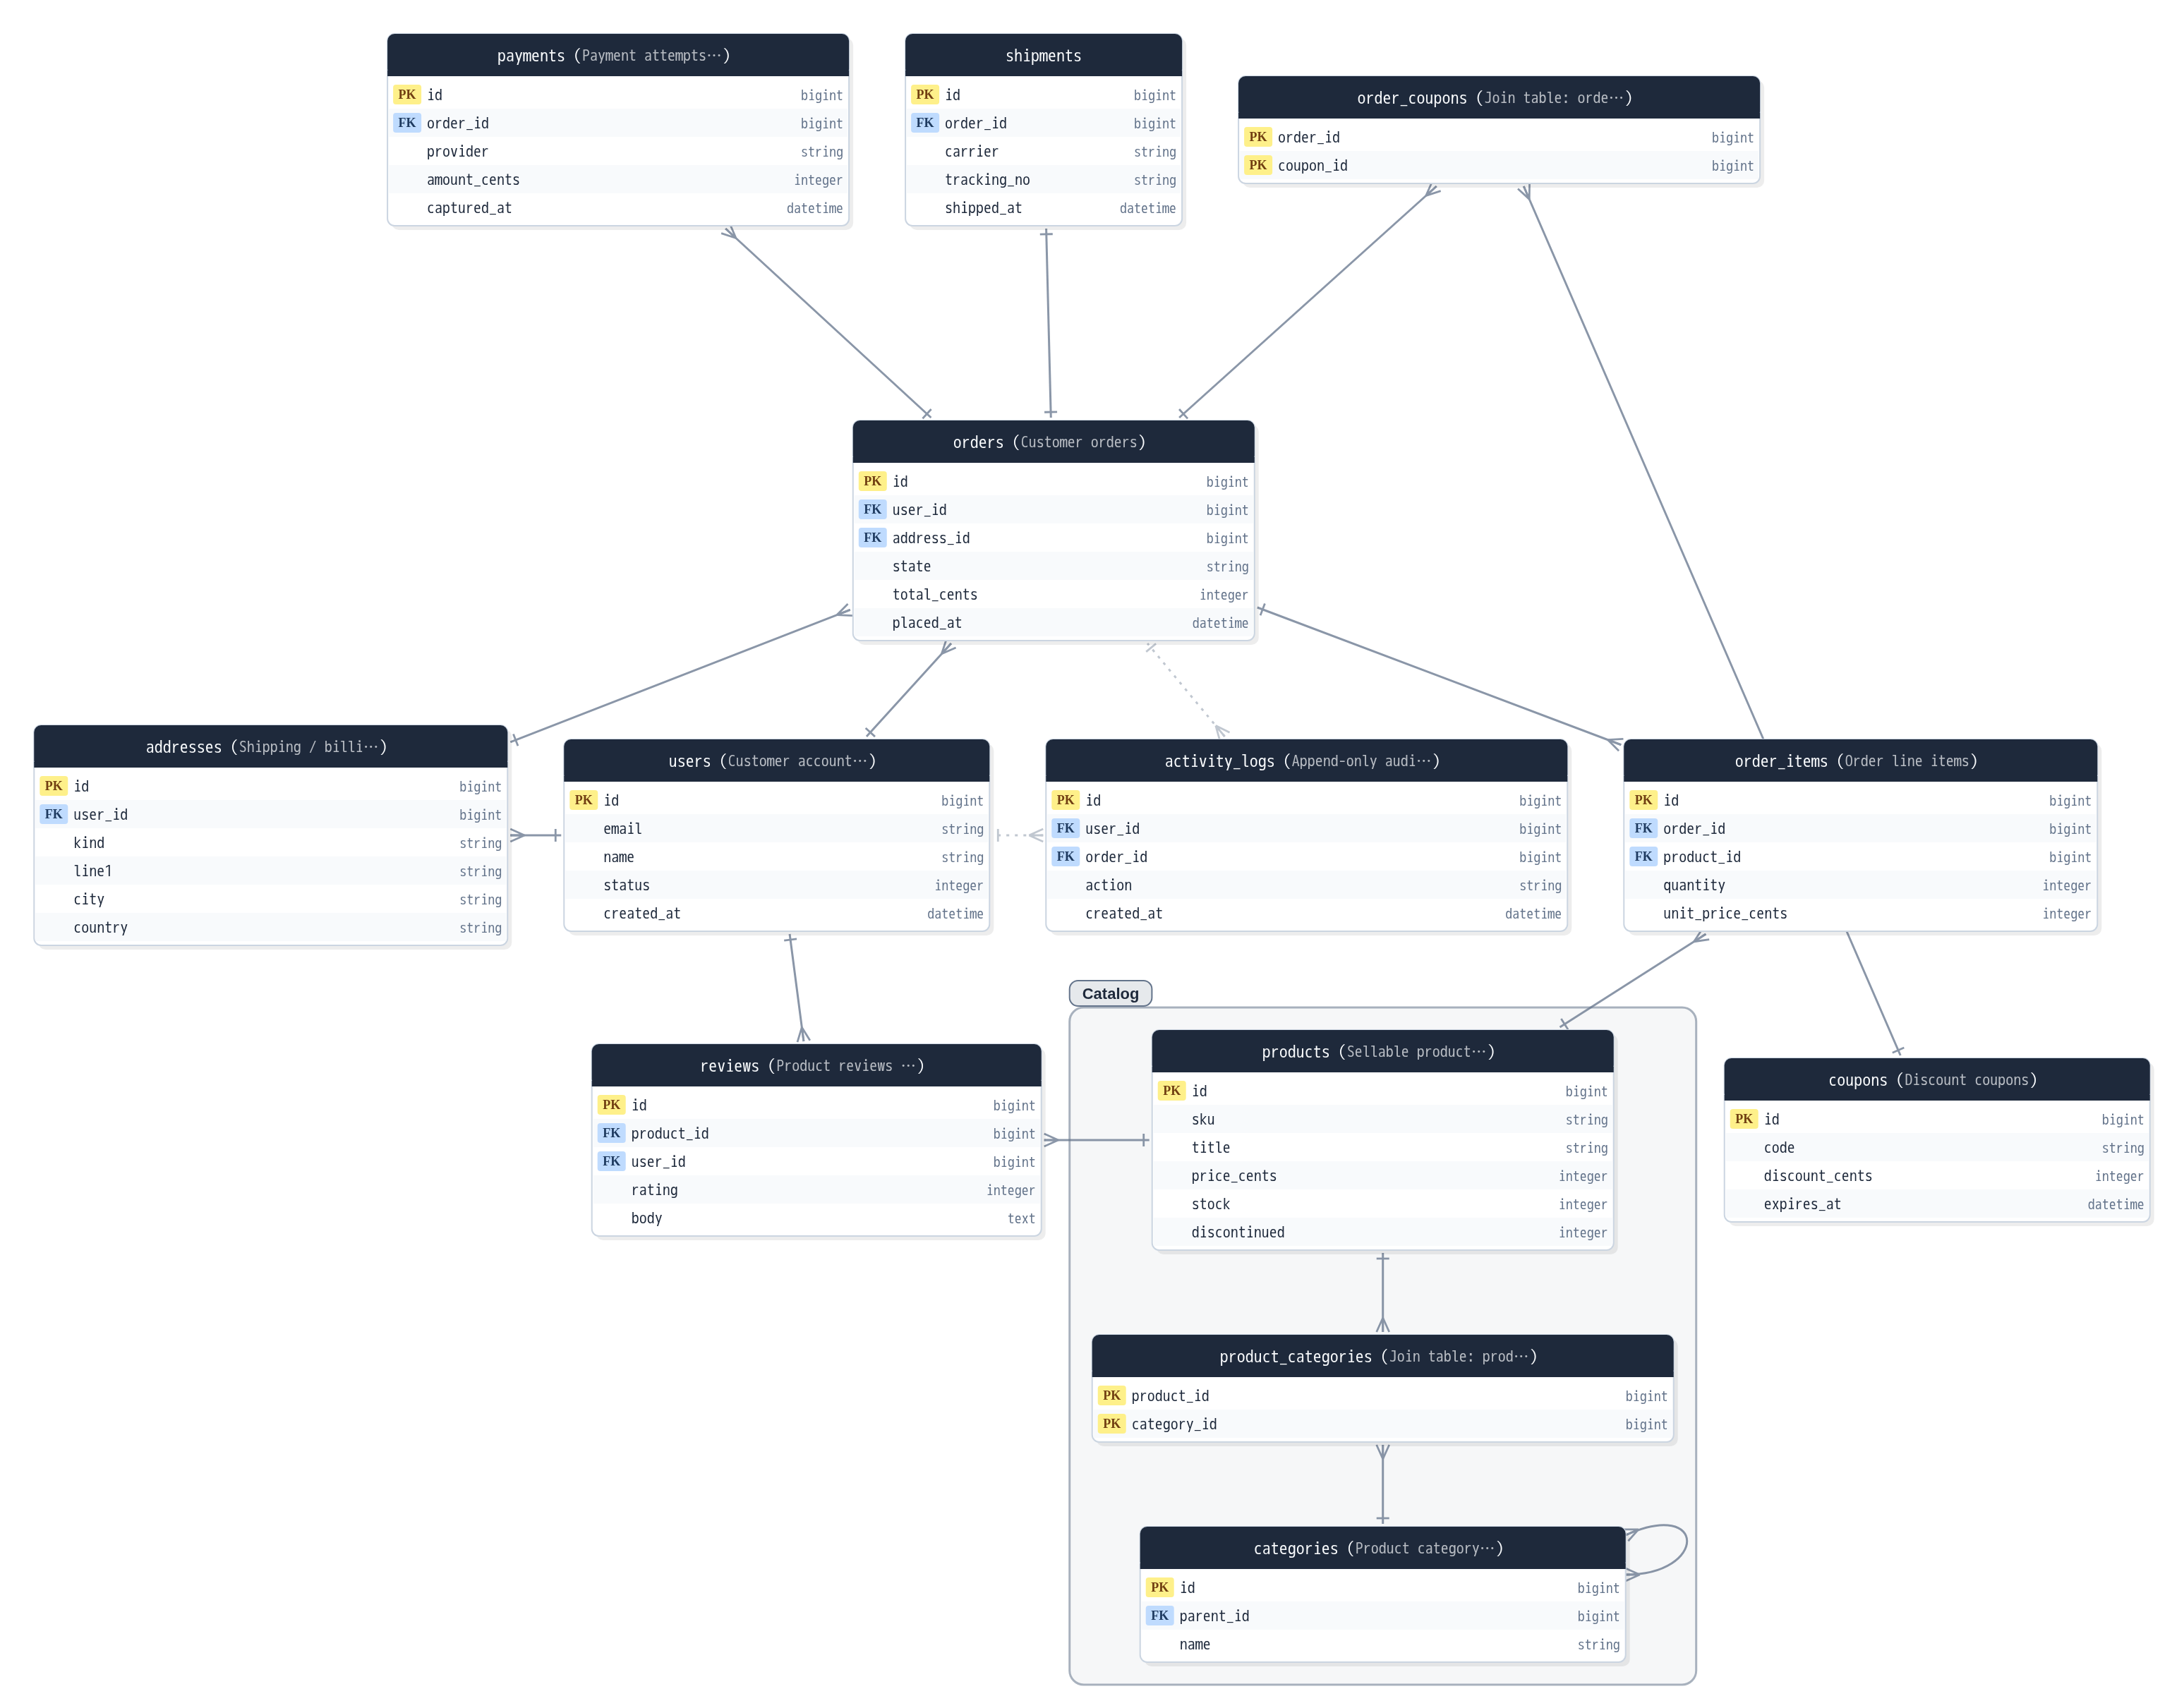
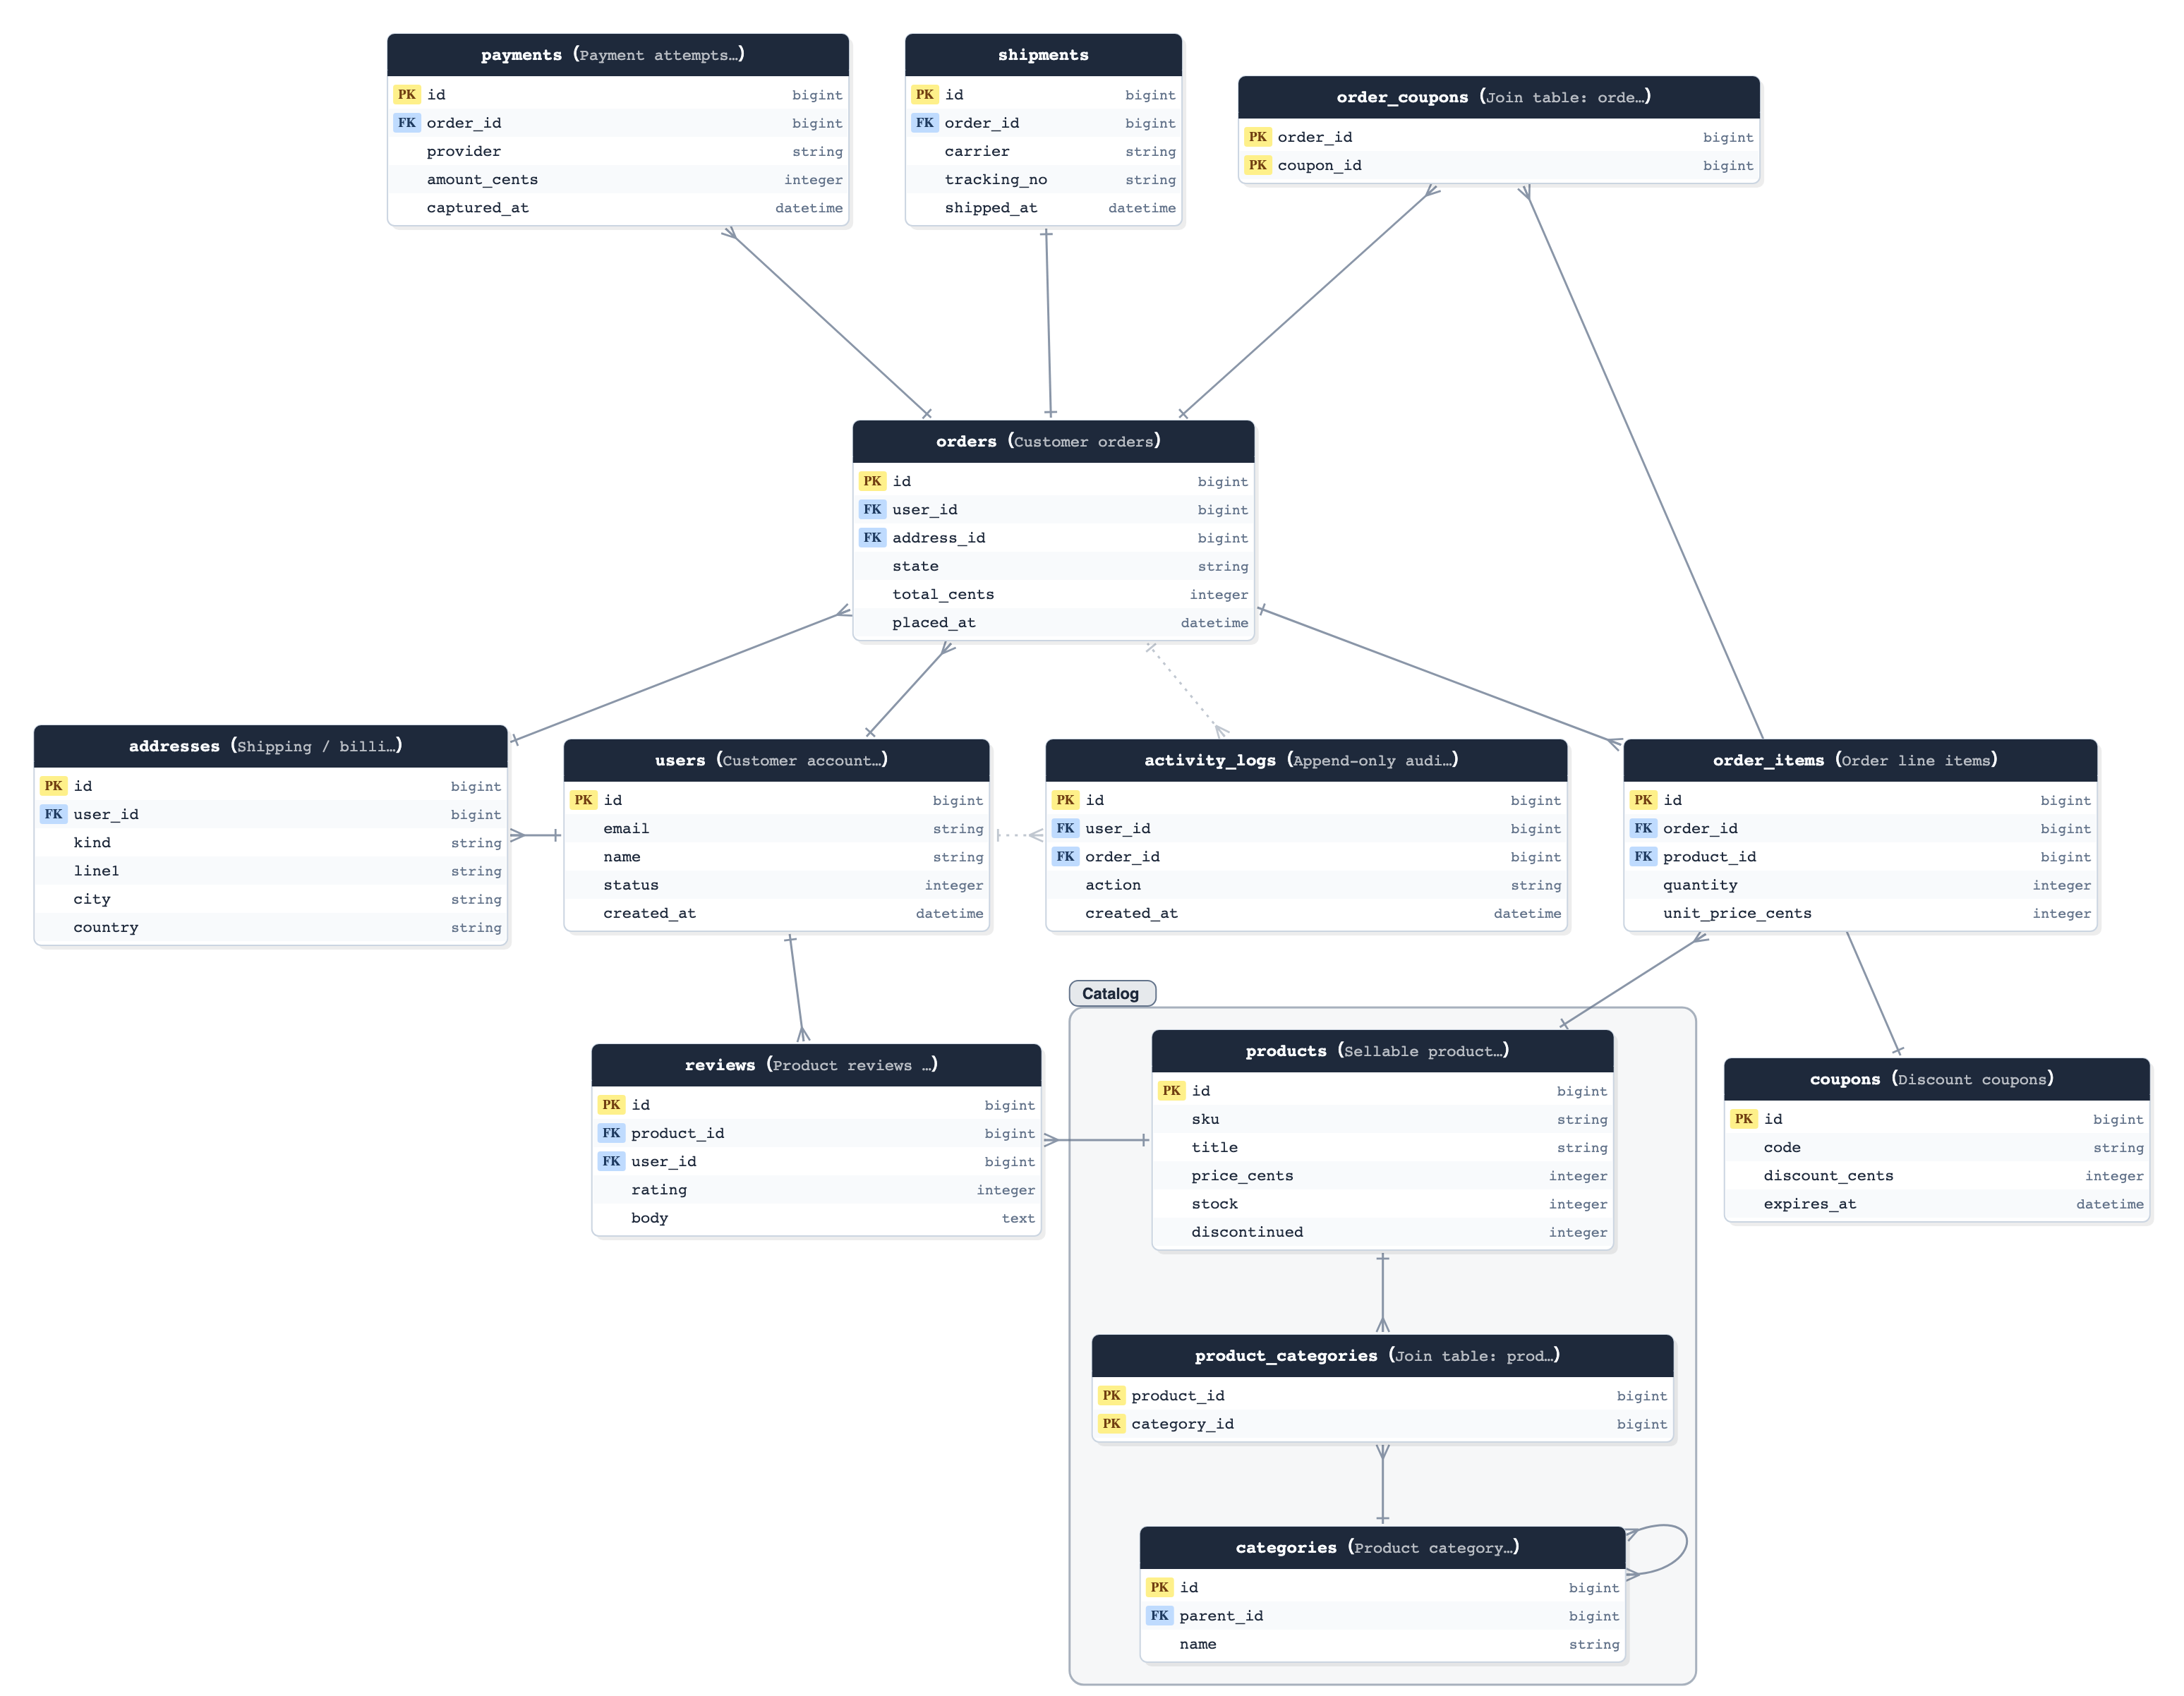
Fix Sol release-review findings: phantom Base table, Laravel project root
- sqlalchemy.py (Sol P1): 'class Base(DeclarativeBase): pass' is promoted
  (transitively) into root_bases instead of falling through to the
  missing-__tablename__ fallback, which fabricated a phantom 'base' table
  for the standard 2.0-style app-defined base. Subclasses still resolve
  as models.
- laravel.py (Sol P2): a Laravel project root (--models ./my-app) now both
  auto-detects (app/Models marker, same shallow convention) and parses the
  app/Models subtree. Detection priority moves before rails: on a
  case-insensitive filesystem app/Models satisfies Rails' weak
  app/models-exists check, so the content-based Eloquent check must run
  first.
- sqlalchemy annotation-only relationship() limit (Sol P2) documented in
  manual EN/JA, verified-versions, and CHANGELOG; tracked on the backlog
  as part of the 2.0 annotation-inference follow-up.
- viewer.html (Sol P3): resolveGroupObstacles comment synced to the
  down/right/left least-travel implementation; demo regenerated.
- Tests: DeclarativeBase-subclass-is-a-base (incl. chained), Laravel
  project-root detection and parse. Full suite: 1341 OK.

diff --git a/docs/index.html b/docs/index.html
@@ -1764,10 +1764,11 @@ const GROUP_DEFAULT_COLOR = '#64748b'; // slate — used when a group has no con
 // majority of schemas/tests.
 //
 // Deliberately bounded, not a general collision solver: at most 3 passes,
-// and each conflict is resolved by pushing the non-member table straight
-// down past the frame (the same direction gridLayout already grows the
-// diagram in, so it reads as "the next row down" rather than an arbitrary
-// jump) — never sideways, never by rearranging anything else. A pushed
+// and each conflict is resolved by pushing the non-member table out of the
+// frame toward whichever of down / right / left clears the overlap with the
+// least travel (tie-break down > right > left, a fixed order for
+// determinism; up is never a candidate since rows grow top-to-bottom) —
+// never by rearranging anything else. A pushed
 // table can in principle end up overlapping some other unrelated node;
 // that residual risk is accepted the same way gridLayout's own placement
 // heuristics already accept it elsewhere (see overlapsPlaced's callers) —

diff --git a/src/erdscope/viewer.html b/src/erdscope/viewer.html
@@ -1764,10 +1764,11 @@ const GROUP_DEFAULT_COLOR = '#64748b'; // slate — used when a group has no con
 // majority of schemas/tests.
 //
 // Deliberately bounded, not a general collision solver: at most 3 passes,
-// and each conflict is resolved by pushing the non-member table straight
-// down past the frame (the same direction gridLayout already grows the
-// diagram in, so it reads as "the next row down" rather than an arbitrary
-// jump) — never sideways, never by rearranging anything else. A pushed
+// and each conflict is resolved by pushing the non-member table out of the
+// frame toward whichever of down / right / left clears the overlap with the
+// least travel (tie-break down > right > left, a fixed order for
+// determinism; up is never a candidate since rows grow top-to-bottom) —
+// never by rearranging anything else. A pushed
 // table can in principle end up overlapping some other unrelated node;
 // that residual risk is accepted the same way gridLayout's own placement
 // heuristics already accept it elsewhere (see overlapsPlaced's callers) —

diff --git a/docs/manual.html b/docs/manual.html
@@ -445,7 +445,7 @@ verified against:</p>
 <tr><td>Django</td><td>models as of Django <strong>4.2 / 5.x</strong> — FK / OneToOne / M2M (incl. <code>through=</code>), abstract bases, <code>db_table</code>/<code>db_column</code>, <code>GenericForeignKey</code> (kept as a polymorphic marker); a swappable <code>AUTH_USER_MODEL</code> FK keeps its column and skips the edge</td></tr>
 <tr><td>DBML (<code>sources[].type: dbml</code>)</td><td>the syntax documented at <a href="https://dbml.dbdiagram.io/docs/" target="_blank" rel="noopener">dbml.dbdiagram.io</a> — <code>Table</code>/column settings (<code>pk</code>/<code>not null</code>/<code>unique</code>/<code>increment</code>/<code>default</code>/<code>note</code>/inline <code>ref</code>), composite PK via <code>indexes { (a, b) [pk] }</code>, standalone and block <code>Ref</code> (all four symbols), <code>Enum</code> (recognized, consumed). <code>TableGroup</code>, a standalone <code>Note</code> object, and a composite (multi-column) <code>Ref</code> are out of scope this round — see <a href="#input-sources">Typed input sources</a></td></tr>
 <tr><td>Mermaid <code>erDiagram</code> (<code>sources[].type: mermaid.er</code>)</td><td>the <a href="https://mermaid.js.org/syntax/entityRelationshipDiagram.html" target="_blank" rel="noopener">erDiagram syntax</a> — entity blocks (<code>PK</code>/<code>FK</code>/<code>UK</code>, quoted comments) and relationship lines (all crow's-foot cardinality combinations, solid or dotted line). A single standalone <code>.mmd</code>/<code>.mermaid</code> file only — no Markdown-fence extraction yet</td></tr>
-<tr><td>SQLAlchemy (<code>sources[].type: sqlalchemy.models</code>)</td><td>declarative models in both the classic <code>declarative_base()</code> and the 2.0 <code>DeclarativeBase</code> styles — <code>Column(...)</code>/<code>mapped_column(...)</code> with explicit type objects, <code>ForeignKey</code>, <code>relationship(secondary=...)</code> many-to-many. Static AST analysis (never imports the models). An annotation-only column (<code>Mapped[int]</code>, no type argument) currently keeps the column with an empty type</td></tr>
+<tr><td>SQLAlchemy (<code>sources[].type: sqlalchemy.models</code>)</td><td>declarative models in both the classic <code>declarative_base()</code> and the 2.0 <code>DeclarativeBase</code> styles — <code>Column(...)</code>/<code>mapped_column(...)</code> with explicit type objects, <code>ForeignKey</code>, <code>relationship(secondary=...)</code> many-to-many. Static AST analysis (never imports the models). An annotation-only column (<code>Mapped[int]</code>, no type argument) currently keeps the column with an empty type, and an annotation-only <code>relationship()</code> (no target argument) is not picked up</td></tr>
 <tr><td>Laravel Eloquent (<code>sources[].type: laravel.models</code>)</td><td><code>hasMany</code>/<code>hasOne</code>/<code>belongsTo</code>/<code>belongsToMany</code> and <code>morphTo</code>/<code>morphMany</code>/<code>morphOne</code>/<code>morphToMany</code> over <code>*.php</code> model files (<code>vendor/</code> excluded); association-only — columns come from a live DB or another physical source</td></tr>
 <tr><td>Python</td><td>3.9+ (<code>requires-python</code>); CI runs the latest CPython 3.x</td></tr>
 </table>
@@ -616,9 +616,11 @@ with explicit type objects map onto erdscope's coarse column types,
 <code>ForeignKey('table.col')</code> becomes a <code>belongs_to</code> (a <code>has_one</code> when
 the column is unique), and <code>relationship(secondary=...)</code> becomes a many-to-many.
 Auto-detection recognizes a SQLAlchemy project by content (recursive scan), unlike the marker-file
-checks the other frameworks use. Known limit this round: an annotation-only column
+checks the other frameworks use. Known limits this round: an annotation-only column
 (<code>id: Mapped[int] = mapped_column(primary_key=True)</code>, no type argument) keeps the column
-but with an empty type.
+but with an empty type, and an annotation-only <code>relationship()</code> (target named only in
+the <code>Mapped[list["Item"]]</code> annotation, no first argument) is skipped — declare the
+target explicitly (<code>relationship("Item", ...)</code>) for the association to be picked up.
 </p>
 <p>
 <strong><code>laravel.models</code></strong> statically parses a directory of Laravel Eloquent

diff --git a/erd.py b/erd.py
@@ -1603,9 +1603,14 @@ def _looks_like_laravel_models(root):
     either declares a class extending Model/Authenticatable/Pivot, or imports
     the Eloquent namespace (a weaker but still telling signal — e.g. a base
     class defined elsewhere in the same app whose OWN extends clause isn't in
-    this file). build()'s actual parse still descends recursively (see
-    _iter_php_files) once a project is already known to be Laravel."""
-    for path in sorted(root.glob('*.php')):
+    this file). A Laravel PROJECT ROOT (the directory you'd `--models ./my-app`)
+    has no .php files at the top, so the conventional `app/Models` marker
+    directory is checked the same shallow way — mirroring how Rails detection
+    accepts an app root via its own marker layout. build()'s actual parse
+    still descends recursively (see _iter_php_files) once a project is
+    already known to be Laravel."""
+    candidates = sorted(root.glob('*.php')) + sorted((root / 'app' / 'Models').glob('*.php'))
+    for path in candidates:
         try:
             content = path.read_text(encoding='utf-8', errors='replace')
         except OSError:
@@ -1863,6 +1868,12 @@ def laravel_provider(models_dir, table_map=None):
     inferring columns from it would misrepresent the schema; a typed
     `laravel.migrations` source is a plausible future addition, not this one.
     """
+    models_dir = Path(models_dir)
+    # accept a Laravel project root: when the conventional app/Models exists,
+    # parse that subtree instead of the whole app (routes/tests/database PHP
+    # is never model code) — the same root the detect() marker check accepts
+    if (models_dir / 'app' / 'Models').is_dir():
+        models_dir = models_dir / 'app' / 'Models'
     fragment = {}
     warnings = []
 
@@ -1885,7 +1896,12 @@ class LaravelOverlay(FrameworkOverlay):
     app/Models). Contributes associations only — no columns (DB-first, the
     same asymmetry as Rails)."""
     name = 'laravel'
-    priority = 5
+    # Must run BEFORE rails (priority 1): on a case-insensitive filesystem
+    # (macOS/Windows default) a Laravel root's `app/Models` satisfies Rails'
+    # weak `app/models`-directory-exists check, so the weak check would
+    # claim the project first. This detect() demands actual Eloquent
+    # evidence inside a .php file, so it can never claim a Rails project.
+    priority = 0
     expects = ('a directory of Eloquent model *.php files (typically '
                'app/Models) declaring at least one model')
 
@@ -2424,13 +2440,30 @@ def parse_sqlalchemy(root):
             classes[node.name] = {'bases': bases, 'tablename': tablename, 'abstract': abstract,
                                   'fields': fields, 'file': str(path), 'lineno': node.lineno}
 
+    # `class Base(DeclarativeBase): pass` (the 2.0-style app-defined base) is
+    # a declarative BASE, not a model: no __tablename__, no columns or
+    # relationships of its own. Promote such a class (transitively — a base
+    # can subclass another base) into root_bases so its subclasses still
+    # resolve as models, instead of letting the D7 fallback below fabricate a
+    # phantom to_snake('Base') table for the base itself.
+    changed = True
+    while changed:
+        changed = False
+        for name, c in classes.items():
+            if (name not in root_bases and not c['tablename'] and not c['fields']
+                    and any(b in root_bases for b in c['bases'])):
+                root_bases.add(name)
+                changed = True
+
     # a class is a model if any base (transitively, by bare name) resolves to
-    # a recognised declarative base — mirrors parse_django's model_keys walk
+    # a recognised declarative base — mirrors parse_django's model_keys walk.
+    # A class that IS a recognised base (root_bases, incl. the promotion
+    # above) is never itself a model.
     model_keys, changed = set(), True
     while changed:
         changed = False
         for name, c in classes.items():
-            if name in model_keys:
+            if name in model_keys or name in root_bases:
                 continue
             if (any(b in root_bases for b in c['bases'])
                     or any(b in model_keys for b in c['bases'])):
@@ -5906,10 +5939,11 @@ const GROUP_DEFAULT_COLOR = '#64748b'; // slate — used when a group has no con
 // majority of schemas/tests.
 //
 // Deliberately bounded, not a general collision solver: at most 3 passes,
-// and each conflict is resolved by pushing the non-member table straight
-// down past the frame (the same direction gridLayout already grows the
-// diagram in, so it reads as "the next row down" rather than an arbitrary
-// jump) — never sideways, never by rearranging anything else. A pushed
+// and each conflict is resolved by pushing the non-member table out of the
+// frame toward whichever of down / right / left clears the overlap with the
+// least travel (tie-break down > right > left, a fixed order for
+// determinism; up is never a candidate since rows grow top-to-bottom) —
+// never by rearranging anything else. A pushed
 // table can in principle end up overlapping some other unrelated node;
 // that residual risk is accepted the same way gridLayout's own placement
 // heuristics already accept it elsewhere (see overlapsPlaced's callers) —

diff --git a/tests/test_erd.py b/tests/test_erd.py
@@ -1083,6 +1083,45 @@ class TestParseLaravel(unittest.TestCase):
         self.assertEqual(gadget['widget']['target'], 'widgets_v2')
 
 
+class TestLaravelProjectRoot(unittest.TestCase):
+    """A Laravel PROJECT ROOT (`--models ./my-app`, no .php files at the top,
+    models under the conventional app/Models) must both auto-detect as
+    laravel and parse the app/Models subtree (Sol release-review P2)."""
+
+    MODEL = (
+        '<?php\n'
+        'namespace App\\Models;\n'
+        'use Illuminate\\Database\\Eloquent\\Model;\n'
+        'class Post extends Model\n'
+        '{\n'
+        '    public function user() { return $this->belongsTo(User::class); }\n'
+        '}\n'
+    )
+
+    def _project_root(self, tmp):
+        models = Path(tmp) / 'app' / 'Models'
+        models.mkdir(parents=True)
+        (models / 'Post.php').write_text(self.MODEL)
+        (models / 'User.php').write_text(
+            '<?php\nnamespace App\\Models;\n'
+            'use Illuminate\\Database\\Eloquent\\Model;\n'
+            'class User extends Model {}\n')
+        return Path(tmp)
+
+    def test_detects_project_root(self):
+        with tempfile.TemporaryDirectory() as tmp:
+            root = self._project_root(tmp)
+            self.assertEqual(erd.detect_code_source(root), 'laravel')
+
+    def test_provider_parses_app_models_subtree(self):
+        with tempfile.TemporaryDirectory() as tmp:
+            root = self._project_root(tmp)
+            result = erd.laravel_provider(root)
+            self.assertIn('posts', result['tables'])
+            assoc = {a['name']: a for a in result['tables']['posts']['associations']}
+            self.assertEqual(assoc['user']['target'], 'users')
+
+
 class TestGeneration(unittest.TestCase):
     def _args(self, **kw):
         base = dict(output='', models=None, excel=None, max_rows=15,

diff --git a/tests/test_sqlalchemy_provider.py b/tests/test_sqlalchemy_provider.py
@@ -238,5 +238,43 @@ class TestSQLAlchemyForeignKeyRelationshipDedup(unittest.TestCase):
         self.assertEqual(parents[0].get('foreign_key'), 'parent_id')
 
 
+class TestDeclarativeBaseSubclassIsABase(unittest.TestCase):
+    """`class Base(DeclarativeBase): pass` (the standard 2.0-style app-defined
+    base) must be treated as a declarative base, not as a model — no phantom
+    to_snake('Base') table, no missing-__tablename__ warning for it — while
+    its subclasses still resolve as models (Sol release-review P1)."""
+
+    SOURCE = (
+        'from sqlalchemy.orm import DeclarativeBase, mapped_column\n'
+        'from sqlalchemy import Integer, String\n'
+        'class Base(DeclarativeBase):\n'
+        '    pass\n'
+        'class User(Base):\n'
+        '    __tablename__ = "users"\n'
+        '    id = mapped_column(Integer, primary_key=True)\n'
+        '    email = mapped_column(String(255))\n'
+    )
+
+    def _parse(self, text):
+        with tempfile.TemporaryDirectory() as tmp:
+            (Path(tmp) / 'models.py').write_text(text)
+            return erd.parse_sqlalchemy(Path(tmp))
+
+    def test_no_phantom_base_table(self):
+        tables, warnings = self._parse(self.SOURCE)
+        self.assertIn('users', tables)
+        self.assertNotIn('base', tables)
+        self.assertEqual([w for w in warnings if "'Base'" in w or '"Base"' in w], [])
+
+    def test_chained_base_subclass_is_also_a_base(self):
+        chained = self.SOURCE.replace(
+            'class User(Base):',
+            'class ProjectBase(Base):\n    pass\nclass User(ProjectBase):')
+        tables, warnings = self._parse(chained)
+        self.assertIn('users', tables)
+        self.assertNotIn('base', tables)
+        self.assertNotIn('project_base', tables)
+
+
 if __name__ == '__main__':
     unittest.main()

diff --git a/src/erdscope/frameworks/laravel.py b/src/erdscope/frameworks/laravel.py
@@ -51,9 +51,14 @@ def _looks_like_laravel_models(root):
     either declares a class extending Model/Authenticatable/Pivot, or imports
     the Eloquent namespace (a weaker but still telling signal — e.g. a base
     class defined elsewhere in the same app whose OWN extends clause isn't in
-    this file). build()'s actual parse still descends recursively (see
-    _iter_php_files) once a project is already known to be Laravel."""
-    for path in sorted(root.glob('*.php')):
+    this file). A Laravel PROJECT ROOT (the directory you'd `--models ./my-app`)
+    has no .php files at the top, so the conventional `app/Models` marker
+    directory is checked the same shallow way — mirroring how Rails detection
+    accepts an app root via its own marker layout. build()'s actual parse
+    still descends recursively (see _iter_php_files) once a project is
+    already known to be Laravel."""
+    candidates = sorted(root.glob('*.php')) + sorted((root / 'app' / 'Models').glob('*.php'))
+    for path in candidates:
         try:
             content = path.read_text(encoding='utf-8', errors='replace')
         except OSError:
@@ -311,6 +316,12 @@ def laravel_provider(models_dir, table_map=None):
     inferring columns from it would misrepresent the schema; a typed
     `laravel.migrations` source is a plausible future addition, not this one.
     """
+    models_dir = Path(models_dir)
+    # accept a Laravel project root: when the conventional app/Models exists,
+    # parse that subtree instead of the whole app (routes/tests/database PHP
+    # is never model code) — the same root the detect() marker check accepts
+    if (models_dir / 'app' / 'Models').is_dir():
+        models_dir = models_dir / 'app' / 'Models'
     fragment = {}
     warnings = []
 
@@ -333,7 +344,12 @@ class LaravelOverlay(FrameworkOverlay):
     app/Models). Contributes associations only — no columns (DB-first, the
     same asymmetry as Rails)."""
     name = 'laravel'
-    priority = 5
+    # Must run BEFORE rails (priority 1): on a case-insensitive filesystem
+    # (macOS/Windows default) a Laravel root's `app/Models` satisfies Rails'
+    # weak `app/models`-directory-exists check, so the weak check would
+    # claim the project first. This detect() demands actual Eloquent
+    # evidence inside a .php file, so it can never claim a Rails project.
+    priority = 0
     expects = ('a directory of Eloquent model *.php files (typically '
                'app/Models) declaring at least one model')
 

diff --git a/src/erdscope/frameworks/sqlalchemy.py b/src/erdscope/frameworks/sqlalchemy.py
@@ -146,13 +146,30 @@ def parse_sqlalchemy(root):
             classes[node.name] = {'bases': bases, 'tablename': tablename, 'abstract': abstract,
                                   'fields': fields, 'file': str(path), 'lineno': node.lineno}
 
+    # `class Base(DeclarativeBase): pass` (the 2.0-style app-defined base) is
+    # a declarative BASE, not a model: no __tablename__, no columns or
+    # relationships of its own. Promote such a class (transitively — a base
+    # can subclass another base) into root_bases so its subclasses still
+    # resolve as models, instead of letting the D7 fallback below fabricate a
+    # phantom to_snake('Base') table for the base itself.
+    changed = True
+    while changed:
+        changed = False
+        for name, c in classes.items():
+            if (name not in root_bases and not c['tablename'] and not c['fields']
+                    and any(b in root_bases for b in c['bases'])):
+                root_bases.add(name)
+                changed = True
+
     # a class is a model if any base (transitively, by bare name) resolves to
-    # a recognised declarative base — mirrors parse_django's model_keys walk
+    # a recognised declarative base — mirrors parse_django's model_keys walk.
+    # A class that IS a recognised base (root_bases, incl. the promotion
+    # above) is never itself a model.
     model_keys, changed = set(), True
     while changed:
         changed = False
         for name, c in classes.items():
-            if name in model_keys:
+            if name in model_keys or name in root_bases:
                 continue
             if (any(b in root_bases for b in c['bases'])
                     or any(b in model_keys for b in c['bases'])):

diff --git a/CHANGELOG.md b/CHANGELOG.md
@@ -18,8 +18,10 @@ and this project adheres to [Semantic Versioning](https://semver.org/spec/v2.0.0
   `ForeignKey('table.col')` → belongs_to (has_one when the column is
   unique), and `relationship(secondary=...)` → many-to-many.
   `--models`/`models` auto-detection recognizes SQLAlchemy projects by
-  content. Known limit: an annotation-only column (`Mapped[int]` with no
-  type argument) keeps the column with an empty type for now.
+  content. Known limits: an annotation-only column (`Mapped[int]` with no
+  type argument) keeps the column with an empty type, and an
+  annotation-only `relationship()` (target named only in the annotation,
+  no first argument) is not picked up — declare the target explicitly.
 - **`sources[].type: laravel.models`** (backlog F2) — a new typed input
   source that statically parses a directory of Laravel Eloquent model
   `*.php` files (typically `app/Models`; `vendor/` always excluded) with